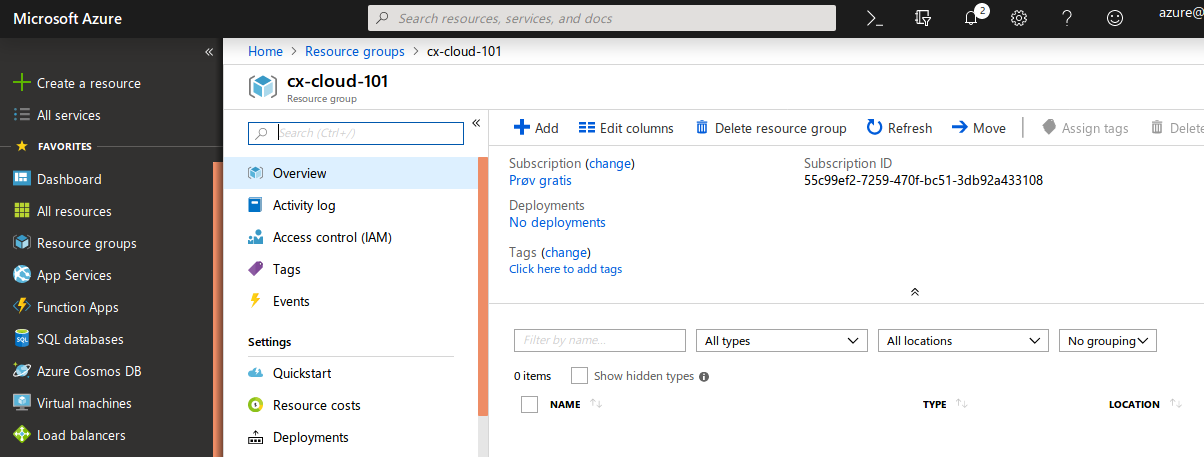
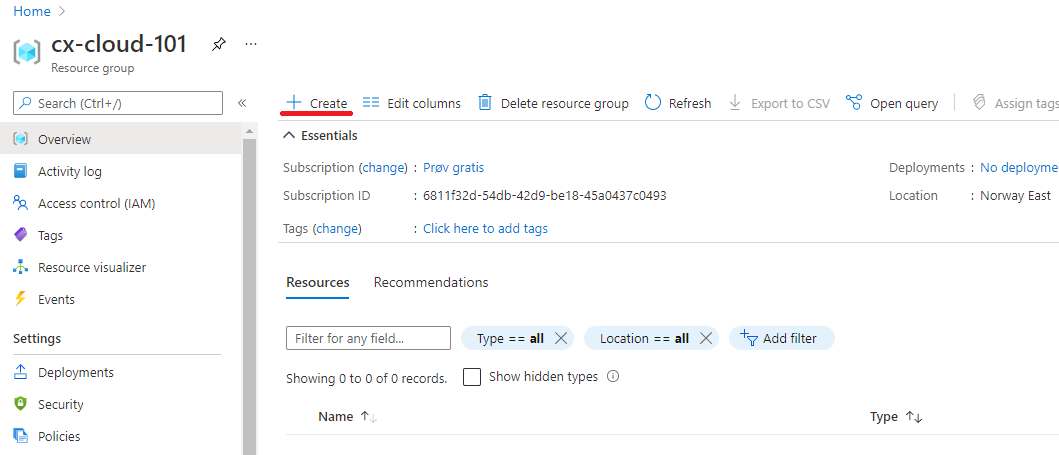
measuring speed small changes, an api for all things rewrite + new images,  receiving speeds minor changes

diff --git a/azure/an-api-for-all-things.md b/azure/an-api-for-all-things.md
@@ -67,6 +67,8 @@ public void Configure(IApplicationBuilder app, IWebHostEnvironment env)
     if (env.IsDevelopment())
     {
         app.UseDeveloperExceptionPage();
+        app.UseSwagger();
+        app.UseSwaggerUI(c => c.SwaggerEndpoint("/swagger/vswagger.json", "SpeedTestApi v1"));
     }
     else
     {
@@ -84,7 +86,7 @@ public void Configure(IApplicationBuilder app, IWebHostEnvironment env)
 }
 ```
 
-Stop and start SpeedTestApi with `dotnet run`, and open [http://localhost:5000/WeatherForecast](http://localhost:5000/WeatherForecast) again. This time we're not redircted to https and we don't get any warnings, but we'll still use https-redirection when running in production.
+Stop and start SpeedTestApi with `dotnet run`, and open [http://localhost:5000/WeatherForecast](http://localhost:5000/WeatherForecast) again. This can be done with `ctrl + C` if run from the console. Now we're not redircted to https and we don't get any warnings, but we'll still use https-redirection when running in production.
 
 _Open question: Should you use https-redirection in development when working on "real" applications?_
 
@@ -184,10 +186,10 @@ Getting it on Azure
 -------------------
 Finally we're getting some Azure action! We're deploying SpeedTestApi to the cloud!
 
-### Creating an Resource Group
+### Creating a Resource Group
 Everything on Azure is organized under a resource group. A resource group is a collection of resources, and everything you make on Azure is a resource. Basically it's a way to organize the stuff you make on Azure into more manageable pieces.
 
-A resource group is connected to a subscription, and that's where the money's coming from. It's also where most of the access-control to editing stuff on Azure is done.
+A resource group is connected to a subscription, and that's where the money is coming from. It's also where most of the access-control to editing stuff on Azure is done.
 
 A quick example to make this all more concrete. Let's say you're a large organization with two consultancy firms developing Azure applications. You want the two firms to do as they please, but you want to keep track of each firms spending separately. Then you'll create two subscriptions, one for each firm. Within one firm, they might be several teams developing several applications, some that other teams shouldn't be able to edit or view, then they'll create different resource groups with different access restrictions.
 
@@ -197,9 +199,7 @@ Log on to [portal.azure.com](https://portal.azure.com), and navigate to "Resourc
 
 ![resource-group-1](images/resource-group-1.png)
 
-Press "Add" to create a new resource group. Name it "cx-cloud-101", and set the resource group location to "West Europe".
-
-_This is actually currently closer than North Europe, since West Europe is located in Amsterdam and North Europe in Ireland_
+Press "Add" to create a new resource group. Name it "cx-cloud-101", and set the resource group location to (Europe) Norway East.
 
 ![resource-group-2](images/resource-group-2.png)
 
@@ -211,7 +211,7 @@ When the resource group is deployed, go to the resource groups page and open it 
 
 Now we're all set to deploy our API. We'll deploy it as an API App. An API App is a managed hosting environment for API's. It understands how ASP.NET Core applications work (among others), so it's quick and easy to set it up without too much low-level configuration. At the same time it has features for scaling, easy deploy and so on. API App is an example of a PaaS-component (Platform as a Service).
 
-Navigate to the new resource group and press "Add".
+Navigate to the new resource group and press "Create".
 
 ![api-app-1](images/api-app-1.png)
 
@@ -221,13 +221,15 @@ Search for "API App" and select API App from the list of results. Then press "Cr
 
 Give the new API App a nice name. This have to be unique across azure, since it determines the URL of your API. username-speedtest-api is one way to name it.
 
-Also select the existing resource group "cx-cloud-101", and create a new App Service plan named "cloud-101-appservice" located in "West Europe".
+Also select the existing resource group "cx-cloud-101", and create a new App Service plan named "cloud-101-appservice". For Runtime stack go with .Net 5, and Windows OS. We also need to create the resource in "Europe West" as "Norway East" doesn't support this App for the free subscription type.
 
-Then press "Ok" and "Create" and wait a bit while the new API App is being set up.
+![api-app-3](images/api-app-3.png)
 
-![api-app-4](images/api-app-5.png)
+Then press "Review + create" then "Create" on the next 'leaf' and wait a bit while the new API App is being set up.
 
-Navigate to the resource group, and open "testuser-speedtest-api".
+<!-- ![api-app-4](images/api-app-5.png) -->
+
+Navigate to the cx-cloud-101 resource group, and open the App Service "cloud-101-appservice". 
 
 ![api-app-4](images/api-app-6.png)
 
@@ -235,9 +237,30 @@ Make a note of your URL, displayed towards the top right corner. This will be th
 
 ![api-app-4](images/api-app-7.png)
 
-Go to "Deployment Center", select GitHub and then authenticate with your GitHub user. Choose "Azure Pipelines (Preview)", select the az-speedtest-api project and master-branch as your deployment source, and give your DevOps organization a decent name. Then continue to the summary-page, and press "Finish".
+<!-- Go to "Deployment Center", select GitHub and then authenticate with your GitHub user. Choose "Azure Pipelines (Preview)", select the az-speedtest-api project and master-branch as your deployment source, and give your DevOps organization a decent name. Then continue to the summary-page, and press "Finish". -->
+Go to "Deployment Center", select GitHub and then authenticate with your GitHub user.
+Choose your user as the Organization and the az-speedtest-api as Repository, with Main as the Branch.
 
-![api-app-4](images/api-app-7-az.png)
+![api-app-4](images/api-app-10.png)
+
+We also need to select the project file so that azure knows which of our projects to build. We can do this in the .yaml file.
+Yaml is a 'human-readable data-serialization language'. It is often used to create configuration files and it is indeed what we are using it for here.
+
+Find the `dotnet build` command in the yaml file and specify which project to build and where to find it. You can do this by adding in the path in the dotnet build command, which you probably recognize.
+
+```shell
+run: dotnet build SpeedTestApi/SpeedTestApi.csproj --configuration Release
+```
+Do the same for dotnet publish, and we should be good to go!
+
+TODO: Litt usikker på om du kan gjøre dette når du oppretter fila, jeg fant fila på github å gjorde changes der. 
+
+```shell
+run: dotnet publish SpeedTestApi/SpeedTestApi.csproj -c Release -o ${{env.DOTNET_ROOT}}/myapp
+```
+
+
+![api-yaml-1](images/api_yaml_01.png)
 
 Wait until the deployment finishes, and then visit [https://testuser-speedtest-api.azurewebsites.net/speedtest/ping](https://testuser-speedtest-api.azurewebsites.net/speedtest/ping) (Replace https://testuser-speedtest-api.azurewebsites.net with tha URL from your APP Service/API App)
 

diff --git a/azure/measuring-speed.md b/azure/measuring-speed.md
@@ -61,7 +61,7 @@ Nothing interesting going on here, so let's continue by actually measuring inter
 
 Measuring internet speed with Speedtest.net
 -------------------------------------------
-[Speedtest.net](http://www.speedtest.net/) is a site used by many (including major ISP's like Get) to measure internet speed from a user machine. Reliably measuring internet speed can be a tricky subject, as you need to download and upload a bunch of different files to measure the actual speed with any kind of repeatability. Luckily we can use the open source package [SpeedTest](https://www.nuget.org/packages/SpeedTest/), that replicates the test performed by speedtest.net, using their test-servers.
+[Speedtest.net](http://www.speedtest.net/) is a site used by many (including major ISP's like Get) to measure internet speed from a user machine. Reliably measuring internet speed can be a tricky subject, as you need to download and upload a bunch of different files to measure the actual speed with any kind of repeatability. Luckily we can use our open source package [SpeedTest](https://www.nuget.org/packages/Cloud101.SpeedTest/), that replicates the test performed by speedtest.net, using their test-servers.
 
 Start by adding the SpeedTest package and resolving all dependencies:
 
@@ -131,7 +131,7 @@ On the way you'll probably have added using statements for System.Globalization 
 
 _Tip: Depending on your editor, you can usually get suggestions on which using statements you're missing by hovering over the keywords marked with red squiggly lines._
 
-Now that we have a suitable test-server, we can continue by testing the download and upload -speed. The number we are given by SpeedTest.Net is bits per second, but usually we want megabits per second (Mbps), so we'll convert the speeds into that unit of measure.
+Now that we have a suitable test-server, we can continue by testing the download and upload -speed. The number we are given by SpeedTest.Net is in bits per second, but usually we want megabits per second (Mbps), so we'll convert the speeds into that unit of measure.
 
 ```csharp
 static void Main(string[] args)
@@ -171,7 +171,6 @@ using System;
 using System.Globalization;
 using System.Linq;
 using SpeedTest;
-using SpeedTest.Models;
 
 namespace SpeedTestLogger
 {
@@ -370,7 +369,7 @@ public class LoggerConfiguration
 }
 ```
 
-An avid reader might have spotted that we're missing something essential. We don't have an "appsettings.json" file yet! Lets create it. Make a new file called `SpeedTestLogger/appsettings.json`, containing the following.
+An avid reader might have spotted that we're missing something essential. We don't have an "appsettings.json" file yet! Lets create it. Make a new file called `SpeedTestLogger/appsettings.json`, containing the following:
 
 ```json
 {
@@ -387,7 +386,6 @@ To be able to load the the appsettings.json file from the console app, we need t
     </None>
 </ItemGroup>
 ```
-
 
 
 Now we can use the configuration value and create a new RegionInfo for our configured loggerLocationCountryCode.
@@ -534,7 +532,7 @@ public TestData RunSpeedTest()
 }
 ```
 
-So what are we going to do with TestServer.Country? This turns out to be more tricky than anticipated, but through the magic of previous programming, you'll just have to add the following private method to SpeedTestRunner, and un-comment the line about country in the constructor.
+So what are we going to do with `TestServer.Country`? This turns out to be more tricky than anticipated, but through the magic of previous programming, you'll just have to add the following private method to SpeedTestRunner, and un-comment the line about country in the constructor.
 
 ```csharp
 private string GetISORegionNameFromEnglishName(string englishName)
@@ -564,7 +562,7 @@ private string GetISORegionNameFromEnglishName(string englishName)
 ```
 
 ### Adding metadata in Main()
-Now we have to update `Main()` again. Add a using-statement to get the classes in SpeedTestLogger.Models, and create a new TestResult with the metadata and the TestData from `RunSpeedTest()`.
+Now we have to update `Main()` again. Add a using-statement to get the classes in `SpeedTestLogger.Models`, and create a new TestResult with the metadata and the TestData from `RunSpeedTest()`.
 
 ```csharp
 // Omitting class and namespace
@@ -584,7 +582,7 @@ static void Main(string[] args)
 }
 ```
 
-What? Hard-coded values for User and Device? This sounds like a case for LoggerConfiguration!
+What!? Hard-coded values for User and Device? This sounds like a case for LoggerConfiguration!
 
 Create two new properties in appsettings.json called `userId` and `loggerId`.
 
@@ -622,16 +620,19 @@ Finally we can update `Main()` to use the values from LoggerConfiguration
 // Omitting class and namespace
 static void Main(string[] args)
 {
-    // Omitting old code
+   Console.WriteLine("Hello SpeedTestLogger!");
 
-    var results = new TestResult
-    {
-        SessionId = Guid.NewGuid(),
-        User = config.UserId,
-        Device = config.LoggerId,
-        Timestamp = DateTimeOffset.Now.ToUnixTimeMilliseconds(),
-        Data = testData
-    };
+   var config = new LoggerConfiguration();
+   var runner = new SpeedTestRunner(config.LoggerLocation);
+   var testData = runner.RunSpeedTest();
+   var results = new TestResult
+   {
+       SessionId = Guid.NewGuid(),
+       User = config.UserId,
+       Device = config.LoggerId,
+       Timestamp = DateTimeOffset.Now.ToUnixTimeMilliseconds(),
+       Data = testData
+   };
 }
 ```
 

diff --git a/azure/receiving-speeds.md b/azure/receiving-speeds.md
@@ -4,7 +4,7 @@ _Previously we have made a console application capable of running speedtests, an
 
 A class for storing speedtests
 ------------------------------
-We probably want a class describing the kind of data we expect to get from the logger. Let's start by creating a `SpeedTestApi/Models/`-folder, and copying TestResult.cs from `SpeedTestLogger/Models/TestResult.cs`.
+We probably want a class describing the kind of data we expect to get from the logger. Let's start by creating a `SpeedTestApi/Models/`-folder, and copying `TestResult.cs` from `SpeedTestLogger/Models/TestResult.cs`.
 
 Update the namespace from `SpeedTestLogger.Models` to `SpeedTestApi.Models`, so we're consistent with the folder location and the other namespaces in SpeedTestApi.
 
